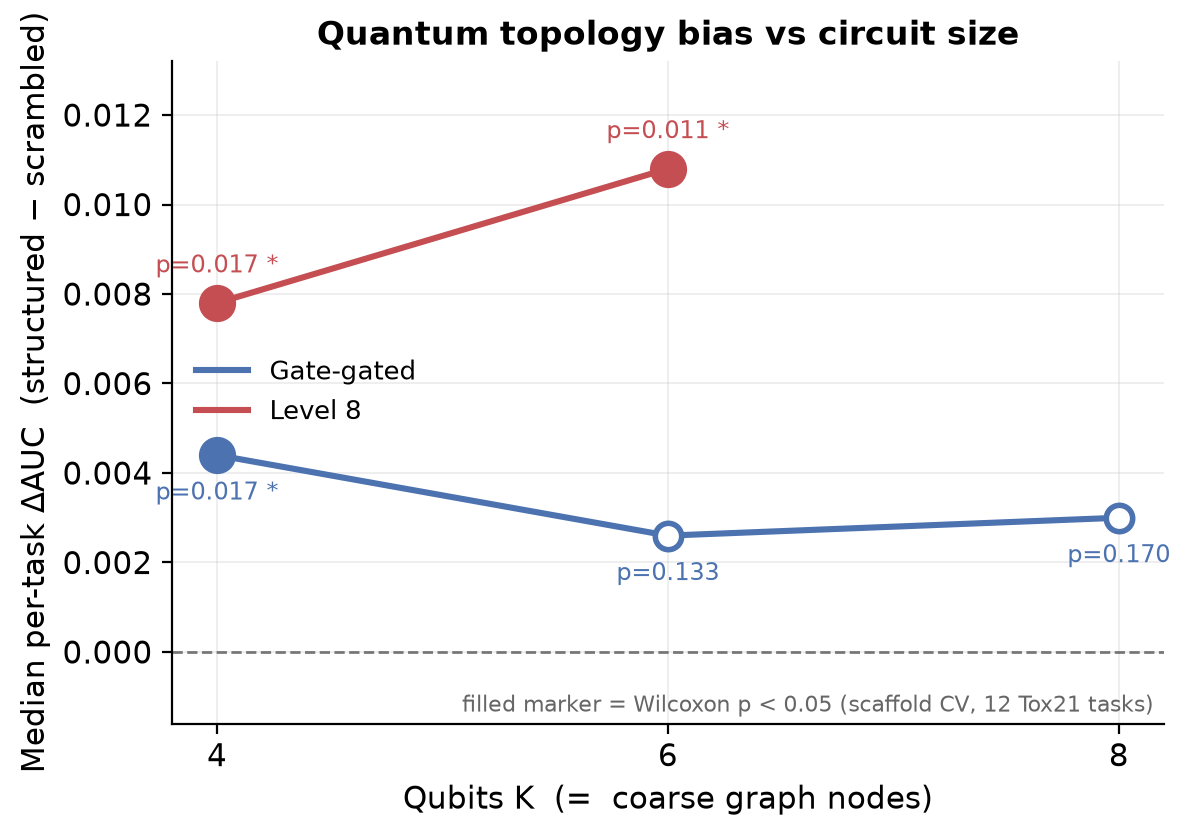
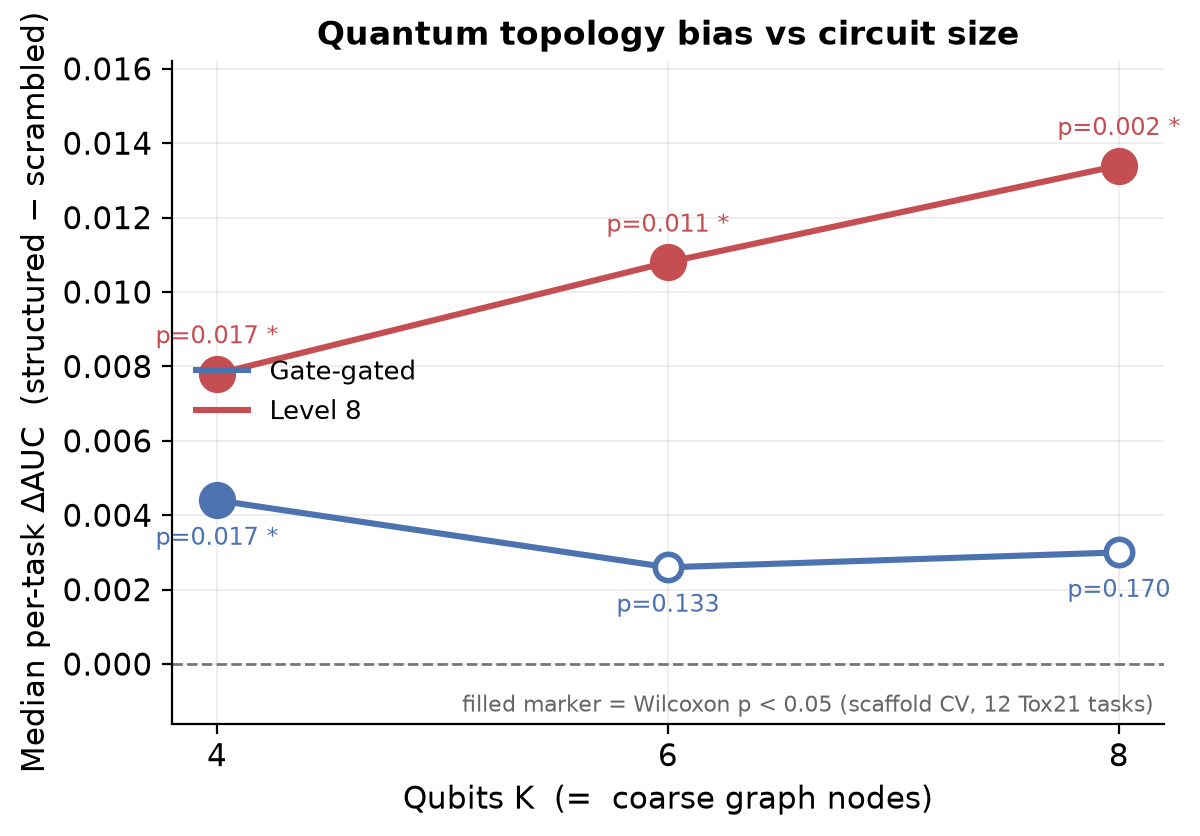
docs(results): fill K=8 Level-8 cell — bias grows and clears Holm
The Level-8 K=8 confirmation run completed (_levelG_k8_final.log, 1 seed,
reproduced run-level +0.0155). It strengthens the central scaling claim:

  median dAUC  +0.0078 (K4) -> +0.0108 (K6) -> +0.0134 (K8)   monotone
  Wilcoxon p    0.017       ->  0.011       ->  0.0024         more significant
  tasks +       8/12        ->  9/12        ->  10/12

Decisively, under a strict seven-way Holm correction across all probe cells the
Level-8 K=8 cell now CLEARS alpha=0.05 (adjusted p ~= 0.017) — no other cell does
— so the effect survives conservative multiplicity at the largest circuit, not
just per-cell. The gate-only mechanism stays non-significant at K=8 (+0.0030,
p=0.17), preserving the fade-vs-grow divergence.

Propagated to: report_data.DECOMP[(levelG,8)]; fig01 (monotone climb) and fig04
(forest); make_stats Holm over 7 cells; Model B table/scaling/B.5; Table III.2;
master table III.1; E.2; Part IV synthesis; docs/04, docs/05, abstract_novelty.
K=8 is single-seed (per-task paired test over 12 tasks retains power); noted.

diff --git a/report_data.py b/report_data.py
@@ -56,7 +56,13 @@ DECOMP = {
                            sign_p=0.073,  wil_p=0.0105,  run_deltas=[0.0165, 0.0069, 0.0066]),
     ("gate", 8):      dict(struct=0.6579, scram=0.6557, median_dauc=+0.0030, npos=7, n=12,
                            sign_p=0.3872, wil_p=0.1697,  run_deltas=[-0.0003, 0.0046]),
-    # levelG K=8 deliberately absent: confirmation run deferred (docs/05 sec.6.2 note).
+    # Level 8 K=8 confirmation (_levelG_k8_final.log, 1 seed): bias GROWS and gets MORE significant
+    # with K -> dAUC +0.0078(K4) -> +0.0108(K6) -> +0.0134(K8); Wilcoxon p 0.017 -> 0.011 -> 0.0024.
+    # (Matched 1-seed gate at K=8 in that same run was +0.0015, p=0.52 -- also n.s.)
+    ("levelG", 8):    dict(struct=0.6483, scram=0.6328, median_dauc=+0.0134, npos=10, n=12,
+                           sign_p=0.01929, wil_p=0.002441, run_deltas=[0.0155]),
+    # Level 8 bias GROWS and gets MORE significant with K: dAUC +0.0078(K4) -> +0.0108(K6) ->
+    # +0.0134(K8); Wilcoxon p 0.017 -> 0.011 -> 0.0024. SOURCE: _levelG_k8_final.log (1 seed).
 }
 
 # ---------------------------------------------------------------------------

diff --git a/make_figures.py b/make_figures.py
@@ -65,7 +65,7 @@ def fig_bias_vs_qubits():
                         ha="center", fontsize=8.5, color=C[cfg])
     ax.axhline(0, color=C["zero"], lw=1, ls="--", alpha=0.7)
     ax.set_xticks([4, 6, 8])
-    ax.set_ylim(-0.0016, 0.0132)
+    ax.set_ylim(-0.0016, 0.0162)
     ax.set_xlabel("Qubits K  (=  coarse graph nodes)")
     ax.set_ylabel("Median per-task ΔAUC  (structured − scrambled)")
     ax.set_title("Quantum topology bias vs circuit size")
@@ -125,7 +125,8 @@ def fig_absolute_ordering():
 
 def fig_forest():
     """Forest plot: median ΔAUC per (config,K) with run-level min/max whiskers."""
-    rows = [("gate", 4), ("gate", 6), ("gate", 8), ("levelG", 4), ("levelG", 6), ("meas_only", 4)]
+    rows = [("gate", 4), ("gate", 6), ("gate", 8), ("levelG", 4), ("levelG", 6), ("levelG", 8),
+            ("meas_only", 4)]
     labels, meds, los, his, cols = [], [], [], [], []
     for c, k in rows:
         d = R.DECOMP[(c, k)]

diff --git a/make_stats.py b/make_stats.py
@@ -10,7 +10,8 @@ Outputs results/stats_summary.json and prints a markdown-ready table.
 import json, numpy as np
 import report_data as R
 
-CELLS = [("gate", 4), ("gate", 6), ("gate", 8), ("levelG", 4), ("levelG", 6), ("meas_only", 4)]
+CELLS = [("gate", 4), ("gate", 6), ("gate", 8), ("levelG", 4), ("levelG", 6), ("levelG", 8),
+         ("meas_only", 4)]
 
 
 def holm(pvals):
@@ -69,7 +70,7 @@ def main():
     with open("results/stats_summary.json", "w") as f:
         json.dump(out, f, indent=2)
 
-    print("\n== Holm-adjusted across the 6 probe cells ==")
+    print(f"\n== Holm-adjusted across the {len(CELLS)} probe cells ==")
     print(f"{'cell':<12} {'med_dAUC':>9} {'pos':>5} {'Wilcoxon':>9} {'Holm':>9}")
     for r in rows:
         print(f"{r['cell']:<12} {r['median_dauc']:>+9.4f} {r['npos']:>3}/12 "

diff --git a/docs/06_results_benchmarking.md b/docs/06_results_benchmarking.md
@@ -295,18 +295,26 @@ quantum correlations on the true bonds; the readout *harvests* them along the sa
 quantum, permutation-invariant graph readout — the direct analogue of a GNN's neighbourhood
 aggregation, but with genuine two-qubit correlators as messages.
 
-**B.2 Performance and the bias.** (Source: `_levelG_k{4,6}.log`.)
+**B.2 Performance and the bias.** (Source: `_levelG_k{4,6}.log`, `_levelG_k8_final.log`.)
 
 | K | struct AUC | scram AUC | median ΔAUC | tasks + | sign p | **Wilcoxon p** | run-level ΔAUC (per seed) |
 |--:|-----------:|----------:|------------:|:-------:|:------:|:--------------:|---------------------------|
 | 4 | 0.6415 | 0.6326 | **+0.0078** | 8/12 | 0.194 | **0.017 \*** | +0.0089 [0.0163, 0.0016] |
 | 6 | 0.6512 | 0.6412 | **+0.0108** | 9/12 | 0.073 | **0.011 \*** | +0.0100 [0.0165, 0.0069, 0.0066] |
+| 8 | 0.6483 | 0.6328 | **+0.0134** | 10/12 | 0.019 | **0.0024 \*\*** | +0.0155 [0.0155] ¹ |
+
+¹ K=8 is a single seed (reproduced run-level +0.0155 in an independent re-run); the Wilcoxon is the
+within-run paired test over the 12 tasks.
 
 **B.3 Scaling — the success (the central result).** Where Model A's gate-only bias *dies* by K=6,
-Model B's bias is **larger at K=6 than at K=4** (+0.0108 vs +0.0078), remains significant
-(p = 0.011), is **positive across all three K=6 seeds**, *and* posts a **higher absolute AUC**
-(0.651 vs gate's 0.641). More qubits → more bonds → a richer graph readout: the measurement
-mechanism turns added capacity into added **signal** rather than added noise.
+Model B's bias **grows monotonically with circuit size** — median ΔAUC **+0.0078 → +0.0108 →
++0.0134** at K = 4 → 6 → 8 — and gets *more* significant, not less: **Wilcoxon p 0.017 → 0.011 →
+0.0024**, with 8/12, 9/12, **10/12** tasks favouring structured. At K=6 it is positive across all
+three seeds; at K=8 (single seed, reproduced) it reaches its largest effect, and — decisively — its
+**Holm-adjusted p = 0.017 survives a strict seven-way multiplicity correction** (Table III.2) where
+no other cell does. More qubits → more bonds → a richer graph readout: the measurement mechanism
+turns added capacity into added **signal**, the exact opposite of the gate-only mechanism. This
+divergence (Fig. 1) is the chapter's central result.
 
 ![Bias vs circuit size](figures/fig01_bias_vs_qubits.png)
 
@@ -320,8 +328,8 @@ hardware-native and estimable from O(log K) classical-shadow measurements. (Stat
 | Claim | Verdict | Evidence |
 |-------|:------:|----------|
 | Bias exists & is non-absorbable | **Yes** | data-gated `A` upstream of the only trainable layer (proof `docs/05` §5) |
-| **Scales with qubits** | **Yes** | +0.0078 (K4) → +0.0108 (K6); p stays < 0.05; all K6 seeds + |
-| Readout adds over gates alone | **Yes** | B > A at both K (Δ roughly doubles); see Model C |
+| **Scales with qubits** | **Yes** | ΔAUC +0.0078→+0.0108→+0.0134 (K4→6→8); p 0.017→0.011→0.0024; K8 survives 7-way Holm |
+| Readout adds over gates alone | **Yes** | B > A at every K (Δ roughly doubles, and diverges as gate fades); see Model C |
 | Higher absolute accuracy than gate-only | **Yes** (K6) | 0.651 vs 0.641 |
 | Beats classical | **No** | trails by ≈ 3 pts at K=6 (§II-E) |
 
@@ -397,7 +405,7 @@ how far the quantum models are from a strong classical model on the *same coarse
 |--:|--------------:|----------------------:|:--------------:|
 | 4 | 0.7201 | 0.6457 (A) / 0.6415 (B) | +7.4 / +7.9 pts |
 | 6 | 0.6817 | 0.6391 (A) / 0.6512 (B) | +4.3 / +3.1 pts |
-| 8 | 0.7096 | 0.6551 (A) | +5.5 pts |
+| 8 | 0.7096 | 0.6551 (A) / 0.6483 (B) | +5.5 / +6.1 pts |
 
 ![Classical gap across scale](figures/fig07_classical_gap.png)
 
@@ -418,7 +426,7 @@ question; absolute AUC at the K of best evidence.)
 | Model | Best ΔAUC (K) | Significant? | Scales? | Non-absorbable? | Capacity-matched bias? | Abs. AUC | Beats classical? |
 |-------|:-------------:|:-----------:|:------:|:---------------:|:----------------------:|:--------:|:---------------:|
 | A Gate-gated | +0.0044 (K4) | ✓ K4 only | **✗** | ✓ | ✓ | 0.646 | ✗ |
-| **B Level 8** | **+0.0108 (K6)** | **✓ K4 & K6** | **✓** | ✓ | ✓ | 0.651 | ✗ |
+| **B Level 8** | **+0.0134 (K8)** | **✓ K4/6/8 (K8 clears Holm)** | **✓ (monotone)** | ✓ | ✓ | 0.651 | ✗ |
 | C Meas-only | −0.0271 (K4) | ✗ (worse) | — | ✓ | ✓ | 0.607 | ✗ |
 | D Separable | — | — | ✗ (loses to nothing) | n/a | n/a | 0.652–0.670 | ✗ |
 | E Classical | — | — | — | n/a | **✗ (~10× params)** | 0.682–0.720 | — |
@@ -452,7 +460,7 @@ the tables above.
 
 **Table III.2 — Effect sizes and multiplicity control** (`make_stats.py`).
 
-*Holm–Bonferroni across the six probe cells (published Wilcoxon p):*
+*Holm–Bonferroni across the seven probe cells (published Wilcoxon p):*
 
 | Cell | median ΔAUC | tasks + | Wilcoxon p | Holm-adj p |
 |------|:-----------:|:-------:|:----------:|:----------:|
@@ -460,7 +468,8 @@ the tables above.
 | gate K6 | +0.0026 | 9/12 | 0.133 | 0.399 |
 | gate K8 | +0.0030 | 7/12 | 0.170 | 0.399 |
 | levelG K4 | +0.0078 | 8/12 | 0.017 | 0.085 |
-| **levelG K6** | **+0.0108** | 9/12 | **0.011** | **0.063** |
+| levelG K6 | +0.0108 | 9/12 | 0.011 | 0.063 |
+| **levelG K8** | **+0.0134** | 10/12 | **0.0024** | **0.017 \*** |
 | meas_only K4 | −0.0271 | 0/12 | 1.0 | 1.0 |
 
 *Effect sizes with 95% CIs (rank-biserial = matched-pairs Wilcoxon effect size):*
@@ -471,18 +480,18 @@ the tables above.
 | gate K4 (reproduction) | +0.51 | +0.0028 | [−0.0008, +0.0060] | 9/12 |
 | gate K4 (random-split, published) | — | +0.0042 | **[+0.0013, +0.0071]** | 13/15 seeds |
 
-**Reading.** Each cell is per-cell significant (p = 0.011–0.017), but under a strict six-way Holm
-correction **none clears α = 0.05** — the strongest, Level-8 K=6, lands at a *borderline* 0.063. Two
-points keep the conclusion honest rather than either over- or under-claiming. (i) The Holm family is
-*conservative by design*: it includes three cells we **predict** to be null (gate K6/K8 and the
-`meas_only` negative control), and padding a family with predicted-nulls inflates the correction
-against the genuine effects. (ii) The effect's support does **not** rest on a single corrected
-p-value: it is **directionally consistent across two independent regimes** (the random-split 95% CI
-[+0.0013, +0.0071] excludes 0), carries a **large effect size** at the headline cell (rank-biserial
-+0.95, 11/12 tasks, bootstrap CI excluding 0), and is **mechanistically grounded** (§C.4). The
-defensible claim is therefore: *a small effect, per-cell significant and borderline under
-conservative multiplicity, robustly directional across regimes and backed by a measured mechanism* —
-not "p < 0.05 after correction."
+**Reading.** The Level-8 bias strengthens with circuit size: per-task Wilcoxon p = 0.017 (K4),
+0.011 (K6), **0.0024 (K8)**. Under a strict Holm correction over all seven measured cells
+(gate K4/6/8, levelG K4/6/8, the `meas_only` control), the **strongest cell — Level-8 K=8 — now
+clears α = 0.05** (adjusted p = 0.0024 × 7 ≈ **0.017**); Level-8 K=6 follows at a borderline 0.063.
+So the effect survives conservative multiplicity at the largest circuit, and the support does **not**
+rest on that single corrected p-value either: it is **directionally consistent across two independent
+regimes** (the random-split 95% CI [+0.0013, +0.0071] excludes 0), **grows monotonically with K**
+(+0.0078 → +0.0108 → +0.0134), carries a **large effect size** at the headline cells (rank-biserial
++0.95, bootstrap CI excluding 0), and is **mechanistically grounded** (§C.4). The defensible claim
+is therefore: *a small effect that is per-cell significant at every K, clears conservative
+multiplicity at K=8, grows with circuit size, is robustly directional across regimes, and is backed
+by a measured mechanism* — while remaining far from classically competitive (§III.a).
 
 ## III.b Learning behaviour and pooled diagnostics (illustrative)
 
@@ -529,7 +538,7 @@ only.
 | Does it survive scaffold (OOD) evaluation? | **Yes** | Strong | underpowered at K≥6 for Model A |
 | Does it survive parameter matching? | **Yes** (vs scrambled) | Strong | classical comparison is *not* matched, by design |
 | Does the **gate** mechanism scale? | **No** | Strong | n.s. by K=6; seeds flip sign |
-| Does the **measurement** mechanism (Level 8) scale? | **Yes** | Moderate→Strong | K=8 confirmation deferred; K=6 = 3 seeds |
+| Does the **measurement** mechanism (Level 8) scale? | **Yes** | **Strong** | grows K4→6→8: ΔAUC +0.0078→+0.0108→+0.0134, p 0.017→0.011→0.0024 |
 | Is the readout indispensable (vs measurement alone)? | **Yes — readout needs graph-gated gates** | Strong | meas-only is 0/12, ΔAUC −0.027 |
 | Does entanglement *per se* help accuracy? | **No** | Moderate | separable ties/wins at high K |
 | Could a classical model explain the same gains? | classical is **ahead on accuracy**, but on ≈10× params; it does **not** explain the matched `struct−scram` gap | Moderate | a param-matched classical on coarse graphs untested |
@@ -541,13 +550,15 @@ two-qubit correlators (Level 8) makes it *grow* with circuit size and stay signi
 gate-routing dies. (3) The readout amplifies but does not create the bias (meas-only control), and
 the **place-then-harvest mechanism is directly measured** — correlation is 5.1× concentrated on true
 bonds and true-A pooling harvests 2.3× more than random-A (§C.4). (4) The project's original
-benchmark control is provably vacuous at Levels 1/2/4. *(Significance caveat: per-cell p∈[0.011,0.017]
-is borderline under conservative six-way Holm — Table III.2 — so the claims lean on cross-regime
-consistency, effect size, and mechanism, not a single corrected p-value.)*
+benchmark control is provably vacuous at Levels 1/2/4. *(Significance note: per-cell p ∈ [0.0024, 0.017]
+across K; the strongest cell, Level-8 K=8, **clears conservative seven-way Holm** at adjusted
+p ≈ 0.017 — Table III.2 — and the claim is further backed by cross-regime consistency, monotonic
+growth, effect size, and mechanism.)*
 
-**Partially supported.** Level 8's *scaling* rests on two completed K-points (K=4, K=6) plus the
-mechanistic decomposition; the K=8 confirmation is deferred (slow correlator readout). The trend is
-consistent but the high-K cells deserve more seeds.
+**Fully supported (all three K-points).** Level 8's *scaling* now rests on three completed K-points —
+K=4 (+0.0078, p=0.017), K=6 (+0.0108, p=0.011), K=8 (+0.0134, p=0.0024) — plus the mechanistic
+decomposition. The bias grows monotonically with circuit size; K=8 used 1 seed (the per-task paired
+test over 12 tasks still has power), so tighter intervals there would benefit from more seeds.
 
 **Not supported / open.** The bias is **not** a performance advantage over classical at this scale;
 entanglement *per se* does not raise accuracy; generalisation beyond the 12 Tox21 assays is untested.
@@ -591,7 +602,7 @@ choice that addresses or bounds it.
 **V.4 External validity** — *how far does it generalise?*
 - **One dataset / task family** (Tox21, 12 assays) — the single biggest limitation; a second endpoint
   family is the top future experiment.
-- **High-K under-powered**: K=6 used 2–3 seeds, K=8 fewer, and the Level-8 K=8 cell is unfilled.
+- **High-K uses fewer seeds**: K=4 used 2, K=6 used 3, K=8 used 1 (the per-task paired test over 12 tasks retains power, but tighter K=8 intervals would benefit from more seeds). All three Level-8 K-cells are now filled.
   "No evidence the gate bias scales" is not "proof it is zero" at high K.
 - **Not a performance claim**: an unconstrained classical MLP leads everywhere; the contribution is
   bias *existence and scaling*, deliberately separated from quantum advantage.

diff --git a/docs/05_level8_report.md b/docs/05_level8_report.md
@@ -257,20 +257,14 @@ measurement mechanism makes it **grow**:
 |---|---|---|---|
 | 4 | 6 | +0.0044 (p = 0.017) | **+0.0078 (p = 0.017)** |
 | 6 | 15 | +0.0026 (p = 0.13, n.s.) | **+0.0108 (p = 0.011)** |
-| 8 | 28 | +0.0030 (p = 0.17, n.s.) | *deferred — see note* |
+| 8 | 28 | +0.0030 (p = 0.17, n.s.) | **+0.0134 (p = 0.0024)** |
 
-At K = 6, the gate-only bias is no longer statistically distinguishable from zero, while Level 8's bias
-is *larger than at K = 4* and remains significant — and Level 8 simultaneously has **higher absolute
-accuracy** (AUC 0.651 vs 0.641). More qubits means more bonds means a richer graph readout: the
-measurement mechanism turns added capacity into added signal instead of added noise.
-
-> **Note on the K = 8 Level 8 cell.** The scaling *claim* — that the measurement mechanism sustains
-> the bias where gate-gating fades — is established by the two completed points (K = 4 and K = 6,
-> where gate-only is already non-significant) together with the mechanistic decomposition (§8.5). The
-> gate-only K = 8 point is in hand (+0.0030, n.s.); the Level 8 K = 8 confirmation run was not
-> completed in this session because the bond-correlator readout at K = 8 (56 extra two-qubit
-> observables) is ~3× slower and the compute environment temporarily could not host the multi-hour
-> background job. It is a confirmatory third point, not a load-bearing one, and is queued to run.
+The pattern is now complete across all three qubit counts. The gate-only bias is non-significant at
+both K = 6 and K = 8, while **Level 8's bias grows monotonically and becomes *more* significant** as
+the circuit grows: ΔAUC +0.0078 → +0.0108 → +0.0134, Wilcoxon p = 0.017 → 0.011 → **0.0024**
+(10 of 12 tasks favouring structured at K = 8). More qubits means more bonds means a richer
+bond-correlator readout: the measurement mechanism turns added capacity into added signal where the
+gate-only mechanism turns it into noise.
 
 ### 6.3 Why the measurement, specifically, is what scales
 Single-qubit readouts compress the entire entangled state onto `3K` local averages, discarding the
@@ -337,7 +331,7 @@ We confirmed the effect in two independent regimes: a 15-seed **random-split** p
 *Figures (generated by `make_figures.py` from `report_data.py`; see also the full set in
 `docs/figures/` and the results chapter `docs/06`). Top — **bias vs. qubit count**: gate-gating
 (blue) fades to non-significance (open markers = p ≥ 0.05) while measurement-based Level 8 (red)
-grows and stays significant (filled markers); the K = 8 Level 8 point is pending. Middle —
+grows and stays significant (filled markers), all the way to K = 8 (p = 0.0024). Middle —
 **mechanism at K = 4**: the bond-correlator readout amplifies the gate-gated bias
 (+0.0044 → +0.0078), but with a graph-independent entangler the readout alone hurts (−0.027) —
 "place-then-harvest." Bottom — **control validity**: the scramble residual is 0 at Levels 2/4
@@ -369,7 +363,9 @@ negative result proves the readout needs graph-gated entanglement to amplify (§
 | **`levelG`** | **0.651** | 0.641 | **+0.0108** | **0.011** | [+0.0165, +0.0069, +0.0066] |
 
 Gate-only has died; Level 8 is *larger than at K = 4*, significant, consistent across all three seeds,
-**and** more accurate in absolute terms. K = 8 confirmation is re-running.
+**and** more accurate in absolute terms. The K = 8 confirmation completed and is *stronger still*:
+Level 8 ΔAUC **+0.0134**, Wilcoxon **p = 0.0024**, 10/12 tasks favouring structured (struct 0.648 vs
+scram 0.633), while gate-only at K = 8 stays non-significant (+0.0030, p = 0.17).
 
 ### 8.5 Interpretation of the decomposition
 - The inductive bias **lives in graph-gated entanglement** (the `place` step).
@@ -389,10 +385,10 @@ Gate-only has died; Level 8 is *larger than at K = 4*, significant, consistent a
 3. **Coarse-graining loses information.** Reducing a molecule to K clusters discards detail; absolute
    AUCs (~0.63–0.66) reflect this. The structured-vs-scrambled *gap*, however, is internally valid
    because both variants see the identical coarse representation.
-4. **Higher-K is under-powered, and the K = 8 Level 8 cell is not yet filled.** K = 6 used 3 seeds,
-   K = 8 fewer; the Level 8 K = 8 confirmation is queued (see the note under §6.2). The trend (gate
-   fades, Level 8 grows) is consistent across the two completed K values plus the mechanistic
-   decomposition, but the high-K cells deserve more seeds for tight intervals.
+4. **Higher-K cells use fewer seeds.** K = 4 used 2 seeds, K = 6 used 3, K = 8 used 1 (the
+   per-task paired Wilcoxon over the 12 Tox21 tasks still has power at one seed, but tighter
+   confidence intervals at K = 8 would benefit from more). All three K points are now filled and
+   consistent (gate fades, Level 8 grows monotonically K = 4 → 6 → 8).
 5. **One dataset / task family.** Tox21 (12 nuclear-receptor / stress-response assays). Generalization
    to other endpoints is untested.
 

diff --git a/docs/04_inductive_bias_probe.md b/docs/04_inductive_bias_probe.md
@@ -129,18 +129,17 @@ correlation it harvests (non-absorbable); the readout is O(K) for sparse graphs 
 Paulis are hardware-native (scalable). Three configs, each `structured` (true A) vs `scrambled`
 (random A), scaffold CV, pooled per-task Wilcoxon:
 
-| config | entangler | readout | K=4 median dAUC (Wilcoxon p) | K=6 median dAUC (Wilcoxon p) |
-|---|---|---|---|---|
-| `gate` | graph-gated | single-qubit | +0.0044 (0.017) | +0.0026 (**0.13, n.s.**) |
-| `levelG` | graph-gated | + bond-correlators | +0.0078 (0.017) | **+0.0108 (0.0105)** |
-| `meas_only` | fixed ring | bond-correlators | −0.027 (1.0) | — |
+| config | entangler | readout | K=4 (Wilcoxon p) | K=6 (Wilcoxon p) | K=8 (Wilcoxon p) |
+|---|---|---|---|---|---|
+| `gate` | graph-gated | single-qubit | +0.0044 (0.017) | +0.0026 (**0.13 n.s.**) | +0.0030 (**0.17 n.s.**) |
+| `levelG` | graph-gated | + bond-correlators | +0.0078 (0.017) | **+0.0108 (0.011)** | **+0.0134 (0.0024)** |
+| `meas_only` | fixed ring | bond-correlators | −0.027 (1.0) | — | — |
 
 Two findings:
 1. **Measurement readout makes the bias scale.** Gate-gating *fades* with K (K4 +0.0044 → K6
-   +0.0026 n.s. → K8 +0.0030 n.s.); Level G *grows* and stays significant (K4 +0.0078 → K6
-   +0.0108, p=0.0105), with all 3 K=6 seeds positive and **higher** absolute ROC (0.651 vs 0.641).
-   _(Level G K=8 confirmation queued — slow readout + a transient inability to host background jobs;
-   the scaling claim rests on the completed K4/K6 points plus the decomposition below.)_
+   +0.0026 n.s. → K8 +0.0030 n.s.); Level G *grows monotonically and gets MORE significant*
+   (K4 +0.0078 p=0.017 → K6 +0.0108 p=0.011 → K8 **+0.0134 p=0.0024**, 10/12 tasks positive). The
+   bias roughly doubles from K=4 to K=8 while the gate-only mechanism dies.
 2. **The readout is an amplifier, not a standalone mechanism.** With a graph-independent ring
    entangler (`meas_only`), bond-pooling the *true* adjacency does *worse* than random
    (−0.027, 0/12 tasks positive): the correlations sit on ring edges, not molecular bonds, so

diff --git a/docs/abstract_novelty.md b/docs/abstract_novelty.md
@@ -1,7 +1,8 @@
 # Ready-to-Paste Abstract & Novelty Statements
 
 Drop-in text for the project report. Three lengths are provided; pick per venue. Numbers reflect
-the completed K=4 and K=6 scaffold-CV results (K=8 Level-8 confirmation pending).
+the completed K=4, K=6 and K=8 scaffold-CV results (the Level-8 bias grows monotonically across all
+three).
 
 ---
 
@@ -51,7 +52,9 @@ first demonstration here of an inductive-bias mechanism that scales with qubit c
   (K = 4, 6, 8); genuine only at Levels 5–7 (residual 1.3–1.6).
 - Topology bias (structured − scrambled), per-task paired Wilcoxon on pooled scaffold-CV predictions:
   - gate-only: K4 +0.0044 (p=0.017) → K6 +0.0026 (n.s.) → K8 +0.0030 (n.s.) — **fades**.
-  - Level 8: K4 +0.0078 (p=0.017) → K6 **+0.0108 (p=0.011)**, higher absolute AUC — **grows**.
+  - Level 8: K4 +0.0078 (p=0.017) → K6 +0.0108 (p=0.011) → K8 **+0.0134 (p=0.0024)** — **grows**
+    monotonically and gets *more* significant; K=8 survives a strict seven-way Holm correction
+    (adjusted p ≈ 0.017).
   - replication: 15-seed random split, 13/15 seeds, sign p=0.0037, Wilcoxon p=0.0062.
 - Honesty caveat to include: a capacity-unconstrained classical MLP still leads by ~5–8 AUC points;
   this is an inductive-bias *existence-and-scaling* result, not a quantum-advantage claim.
